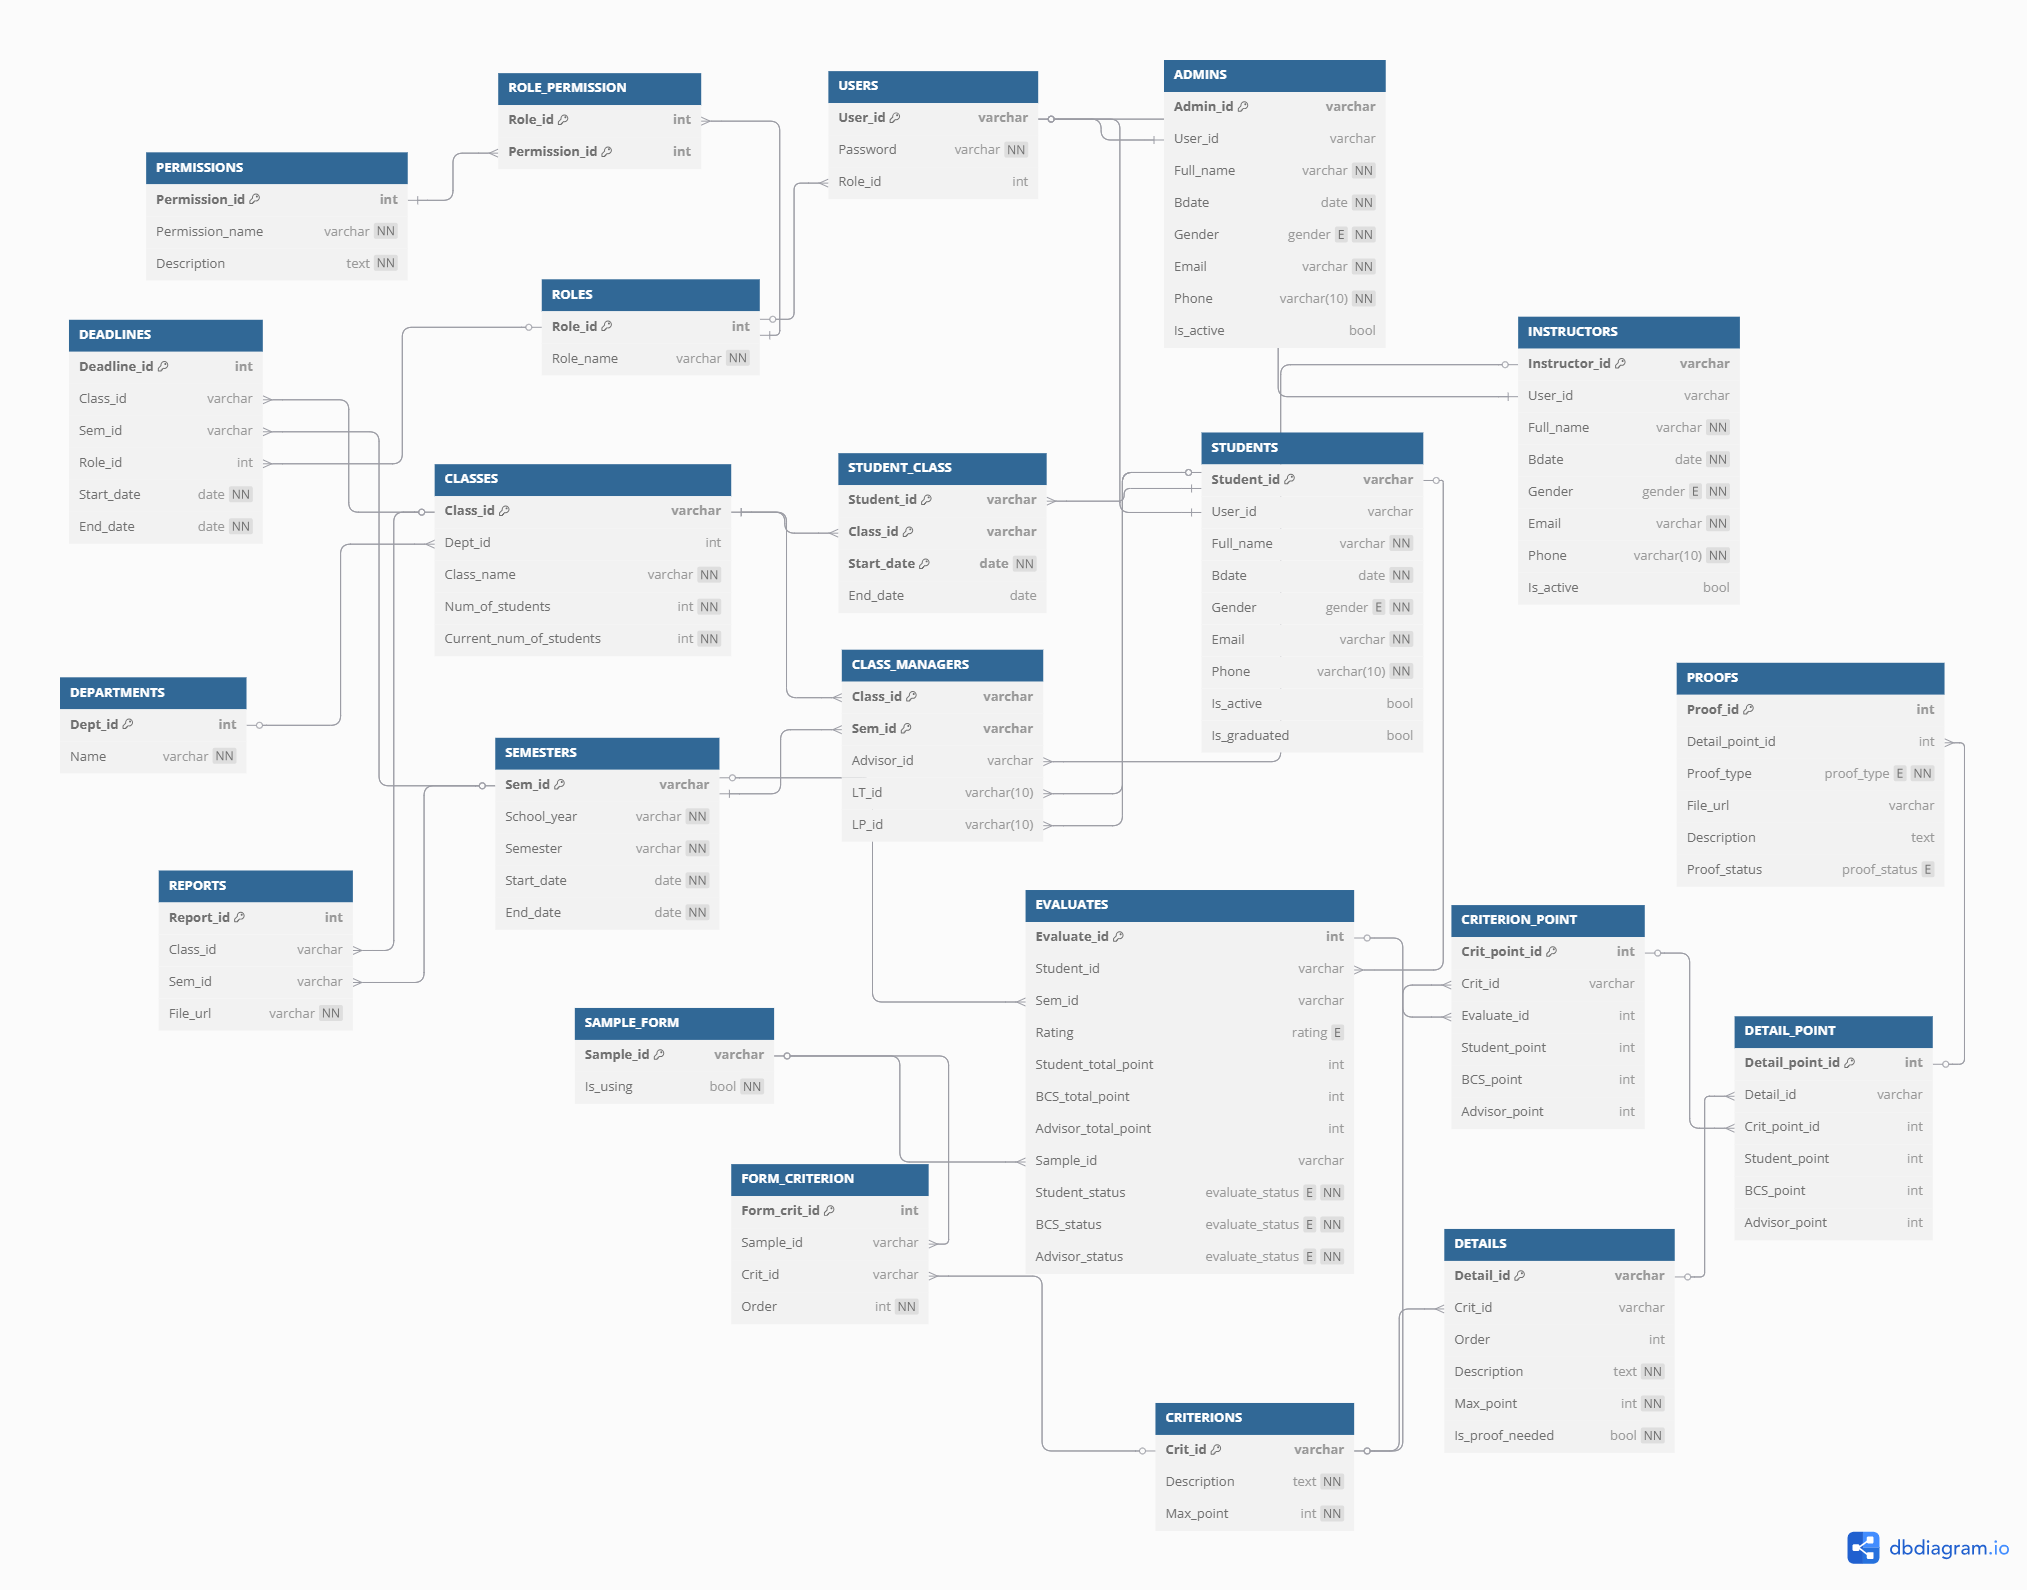
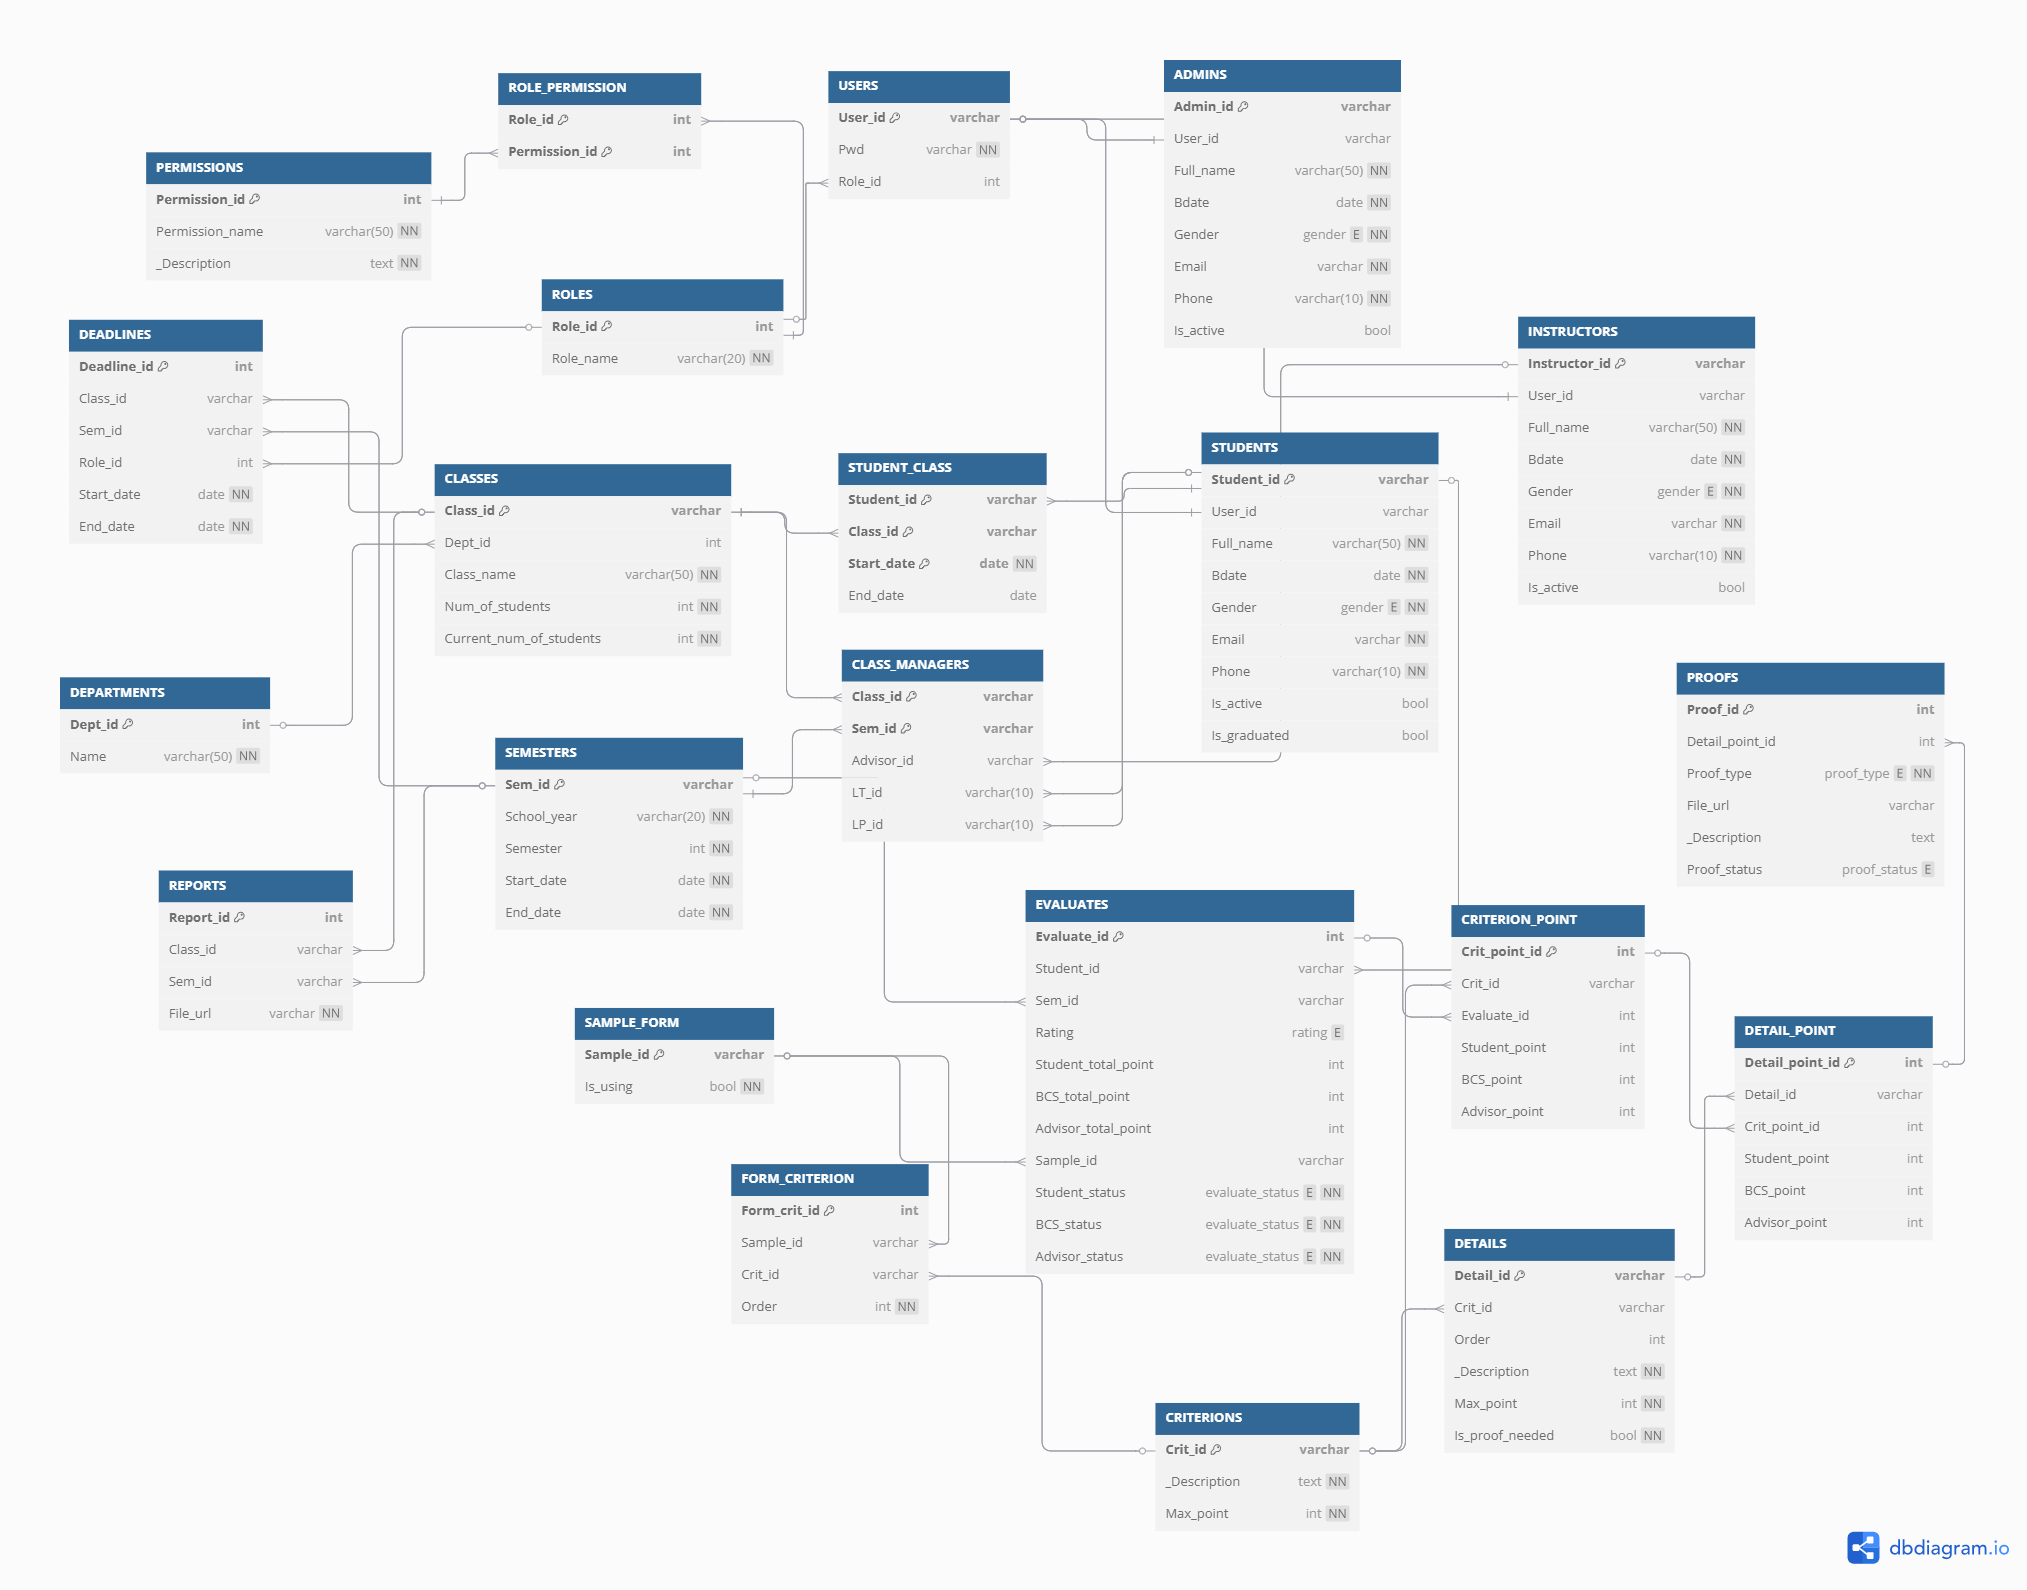
create student controller and service

diff --git a/backend/src/main/java/app/services/GrantService.java b/backend/src/main/java/app/services/GrantService.java
@@ -1,0 +1,53 @@
+package app.services;
+
+import app.models.GrantQueue;
+import app.repositories.GrantQueueRepository;
+import org.springframework.beans.factory.annotation.Autowired;
+import org.springframework.stereotype.Service;
+
+import javax.sql.DataSource;
+import java.sql.Connection;
+import java.sql.SQLException;
+import java.sql.Statement;
+import java.util.List;
+
+@Service
+public class GrantService {
+
+    @Autowired
+    private GrantQueueRepository grantQueueRepository;
+
+    @Autowired
+    private DataSource dataSource;
+
+    public String grantPrivileges() {
+        List<GrantQueue> queue = grantQueueRepository.findByIsGrantedFalse();
+        int success = 0;
+
+        try (Connection conn = dataSource.getConnection()) {
+            for (GrantQueue entry : queue) {
+                String user = entry.getUserId();
+                String role = entry.getRoleName();
+
+                String grantSql = "GRANT " + role + " TO '" + user + "'@'localhost'";
+                String setDefaultSql = "SET DEFAULT ROLE " + role + " TO '" + user + "'@'localhost'";
+
+                try (Statement stmt = conn.createStatement()) {
+                    stmt.execute(grantSql);
+                    stmt.execute(setDefaultSql);
+
+                    entry.setGranted(true);
+                    grantQueueRepository.save(entry);
+                    success++;
+                } catch (SQLException ex) {
+                    System.err.println("Lỗi khi cấp quyền cho " + user + ": " + ex.getMessage());
+                }
+            }
+        } catch (SQLException e) {
+            return "Không thể kết nối MySQL: " + e.getMessage();
+        }
+
+        return "Đã cấp quyền thành công cho " + success + " user.";
+    }
+}
+

diff --git a/backend/src/main/java/app/services/StudentService.java b/backend/src/main/java/app/services/StudentService.java
@@ -1,0 +1,29 @@
+package app.services;
+
+import app.models.Students;
+import app.repositories.StudentRepository;
+import org.springframework.beans.factory.annotation.Autowired;
+import org.springframework.stereotype.Service;
+
+import java.util.List;
+import java.util.Optional;
+
+@Service
+public class StudentService {
+    @Autowired
+    private StudentRepository studentRepository;
+
+    public Optional<Students> getStudentById(String studentId) {
+        return studentRepository.findByStudentId(studentId);
+    }
+
+    public Students getStudentOrThrow(String studentId) {
+        return studentRepository.findByStudentId(studentId)
+                .orElseThrow(() -> new RuntimeException("Không tìm thấy sinh viên có mssv: " + studentId));
+    }
+//    void uploadProof(String studentId, ProofDto proofDto);
+//    void updateProof(String studentId, Integer proofId, ProofDto proofDto);
+//    void deleteProof(String studentId, Integer proofId);
+//    List<ProofDto> getOwnProof(String studentId);
+
+}

diff --git a/backend/src/main/java/app/controllers/StudentController.java b/backend/src/main/java/app/controllers/StudentController.java
@@ -1,0 +1,27 @@
+package app.controllers;
+
+import app.models.Students;
+import app.services.StudentService;
+import org.springframework.beans.factory.annotation.Autowired;
+import org.springframework.http.ResponseEntity;
+import org.springframework.web.bind.annotation.*;
+
+@RestController
+@RequestMapping("/api/students")
+public class StudentController {
+    @Autowired
+    private StudentService studentService;
+
+    @GetMapping("/{id}")
+    public ResponseEntity<?> getStudent(@PathVariable String id) {
+        return studentService.getStudentById(id)
+                .map(student -> ResponseEntity.ok(student))
+                .orElse(ResponseEntity.notFound().build());
+    }
+
+    @GetMapping("/throw/{id}")
+    public ResponseEntity<Students> getStudentOrThrow(@PathVariable String id) {
+        Students student = studentService.getStudentOrThrow(id);
+        return ResponseEntity.ok(student);
+    }
+}

diff --git a/backend/src/main/java/app/models/GrantQueue.java b/backend/src/main/java/app/models/GrantQueue.java
@@ -1,0 +1,32 @@
+package app.models;
+
+import jakarta.persistence.*;
+import lombok.*;
+
+import java.sql.Timestamp;
+
+@Entity
+@Table(name = "grant_queue")
+@NoArgsConstructor
+@AllArgsConstructor
+@Getter
+@Setter
+@ToString
+public class GrantQueue {
+    @Id
+    @GeneratedValue(strategy = GenerationType.IDENTITY)
+    private Long id;
+
+    @Column(name = "User_id")
+    private String userId;
+
+    @Column(name = "Role_name")
+    private String roleName;
+
+    @Column(name = "Is_granted")
+    private boolean isGranted;
+
+    @Column(name = "Created_at")
+    private Timestamp createdAt;
+}
+

diff --git a/backend/src/main/java/app/repositories/StudentRepository.java b/backend/src/main/java/app/repositories/StudentRepository.java
@@ -7,9 +7,11 @@ import org.springframework.data.repository.query.Param;
 import org.springframework.stereotype.Repository;
 
 import java.util.List;
+import java.util.Optional;
 
 @Repository
 public interface StudentRepository extends JpaRepository<Students, String> {
-    @Query("SELECT s FROM students s WHERE s.Student_id LIKE %:mssv%")
-    List<Students> findByMssv(@Param("mssv") String mssv);
+//    @Query("SELECT s FROM students s WHERE s.Student_id LIKE %:mssv%")
+//    List<Students> findByMssv(@Param("mssv") String mssv);
+    Optional<Students> findByStudentId(String studentId);
 }

diff --git a/backend/src/main/java/app/controllers/GrantController.java b/backend/src/main/java/app/controllers/GrantController.java
@@ -1,0 +1,21 @@
+package app.controllers;
+
+import app.services.GrantService;
+import org.springframework.beans.factory.annotation.Autowired;
+import org.springframework.http.ResponseEntity;
+import org.springframework.web.bind.annotation.*;
+
+@RestController
+@RequestMapping("/api/grant")
+public class GrantController {
+
+    @Autowired
+    private GrantService grantService;
+
+    @PostMapping("/process")
+    public ResponseEntity<String> processGrant() {
+        String result = grantService.grantPrivileges();
+        return ResponseEntity.ok(result);
+    }
+}
+

diff --git a/backend/src/main/java/app/repositories/GrantQueueRepository.java b/backend/src/main/java/app/repositories/GrantQueueRepository.java
@@ -1,0 +1,11 @@
+package app.repositories;
+
+import app.models.GrantQueue;
+import org.springframework.data.jpa.repository.JpaRepository;
+
+import java.util.List;
+
+public interface GrantQueueRepository extends JpaRepository<GrantQueue, Long> {
+    List<GrantQueue> findByIsGrantedFalse();
+}
+

diff --git a/backend/src/main/java/app/models/Semesters.java b/backend/src/main/java/app/models/Semesters.java
@@ -20,7 +20,7 @@ public class Semesters {
     private String schoolYear;
 
     @Column(name = "Semester", nullable = false)
-    private String semester;
+    private int semester;
 
     @Temporal(TemporalType.DATE)
     @Column(name = "Start_date", nullable = false)

diff --git a/backend/src/main/java/app/models/Users.java b/backend/src/main/java/app/models/Users.java
@@ -14,7 +14,7 @@ public class Users {
     @Column(name = "User_id")
     private String userId;
 
-    @Column(name = "Password", nullable = false)
+    @Column(name = "Pwd", nullable = false)
     private String password;
 
     @ManyToOne
